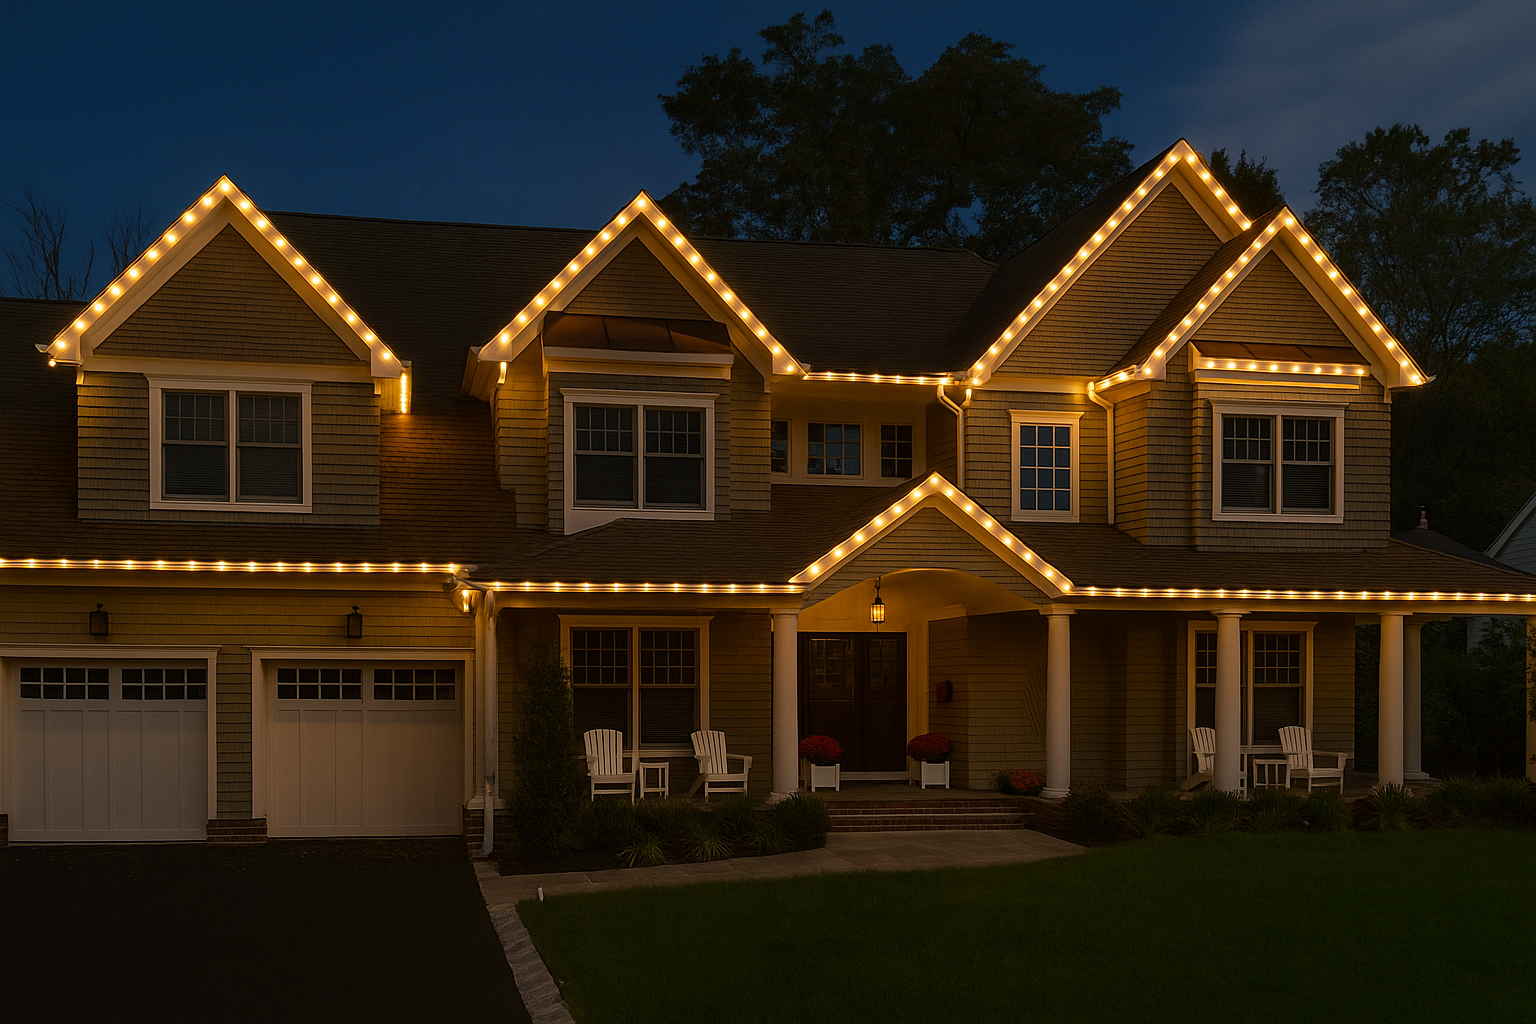
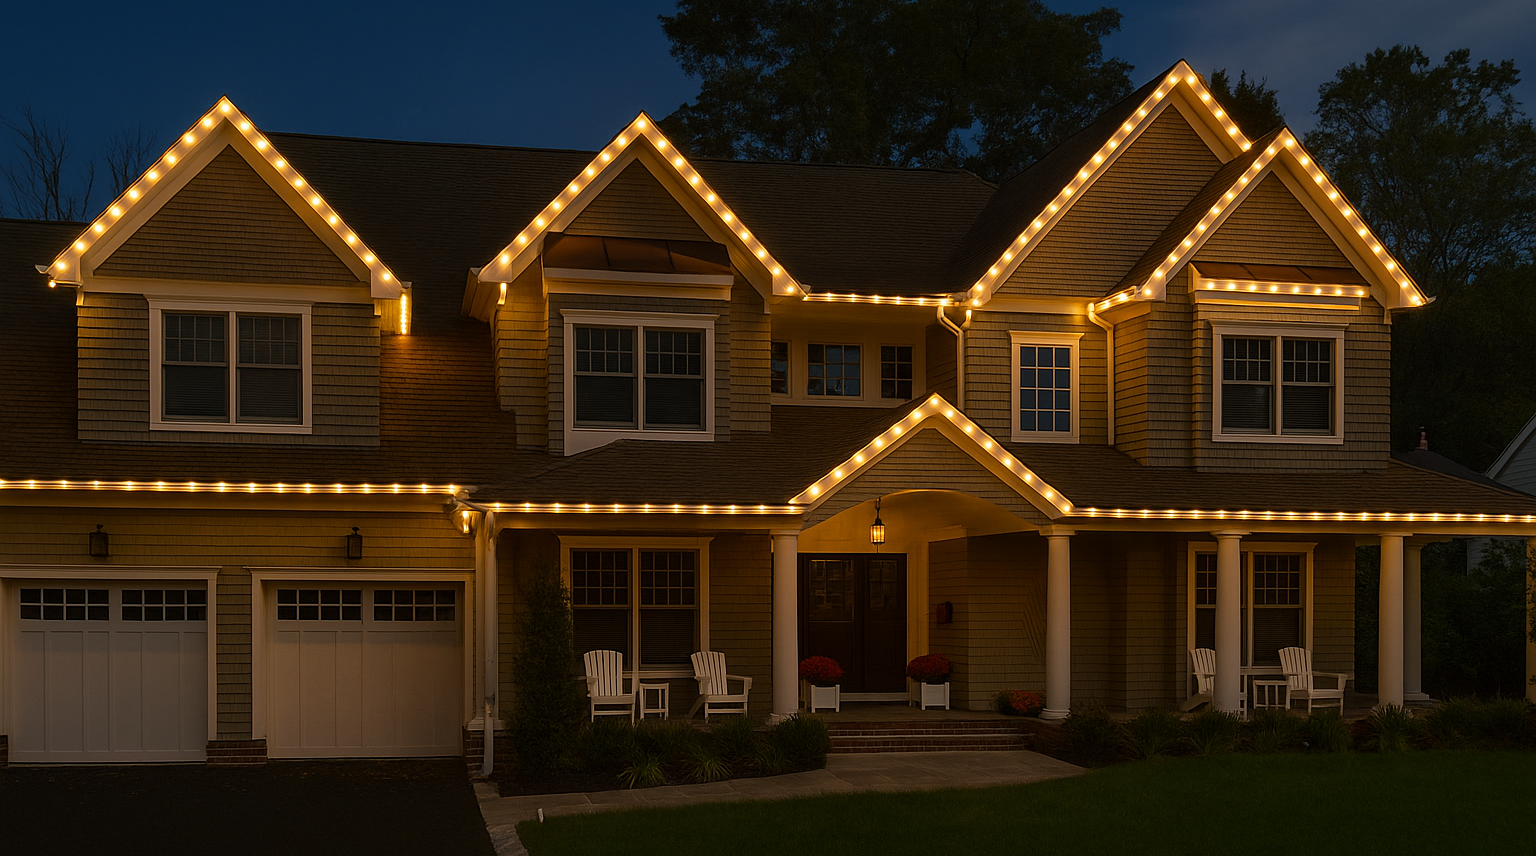
Refresh Christmas lights gallery design

diff --git a/styles.css b/styles.css
@@ -1,28 +1,29 @@
 :root {
-  --ink: #102a24;
-  --green: #123e32;
-  --evergreen: #0c2d24;
+  --ink: #f7f3e9;
+  --green: #113f35;
+  --evergreen: #081f1b;
+  --night: #071210;
   --red: #a52127;
   --gold: #e2ba6d;
-  --cream: #fbf8f0;
-  --paper: #f1ecdf;
-  --line: rgba(16, 42, 36, 0.16);
+  --cream: #0a1714;
+  --paper: #10251f;
+  --line: rgba(255,255,255,.14);
   --serif: Georgia, "Times New Roman", serif;
   --sans: "Aptos", "Segoe UI", Arial, sans-serif;
 }
 
 * { box-sizing: border-box; }
 html { scroll-behavior: smooth; }
-body { margin: 0; color: var(--ink); background: var(--cream); font-family: var(--sans); }
+body { margin: 0; color: var(--ink); background: var(--night); font-family: var(--sans); }
 a { color: inherit; }
 .skip-link { position: fixed; left: 1rem; top: -5rem; z-index: 20; padding: .75rem 1rem; color: #fff; background: var(--evergreen); }
 .skip-link:focus { top: 1rem; }
 
-.site-header { min-height: 4.25rem; display: grid; grid-template-columns: 1fr auto 1fr; align-items: center; gap: 1.25rem; padding: .45rem clamp(1.25rem, 4vw, 5rem); border-bottom: 1px solid var(--line); background: rgba(251,248,240,.95); }
+.site-header { min-height: 4.25rem; position: relative; z-index: 5; display: grid; grid-template-columns: 1fr auto 1fr; align-items: center; gap: 1.25rem; padding: .45rem clamp(1.25rem, 4vw, 5rem); border-bottom: 1px solid var(--line); background: rgba(7,18,16,.96); }
 .brand img { display: block; width: 3.45rem; height: auto; }
 nav { display: flex; gap: 1.6rem; font-size: .9rem; font-weight: 800; letter-spacing: .06em; text-transform: uppercase; }
 nav a, .header-phone { text-decoration: none; }
-nav a:hover, .header-phone:hover, .text-link:hover { color: var(--red); }
+nav a:hover, .header-phone:hover, .text-link:hover { color: var(--gold); }
 .header-phone { justify-self: end; font-size: .88rem; font-weight: 700; }
 
 .hero { min-height: min(46rem, calc(100vh - 5.75rem)); position: relative; display: grid; grid-template-columns: minmax(0, 1.35fr) minmax(17rem, .65fr); align-items: end; gap: clamp(2rem, 7vw, 8rem); padding: clamp(4rem, 9vw, 9rem) clamp(1.25rem, 8vw, 10rem); overflow: hidden; color: #fff; background: linear-gradient(100deg, rgba(7,31,24,.98) 0%, rgba(9,48,38,.9) 43%, rgba(10,35,29,.6) 75%), url("assets/holiday-bokeh.jpg") center / cover; }
@@ -36,7 +37,7 @@ h2 { margin-bottom: 1.15rem; font-size: clamp(2.2rem, 4vw, 4.45rem); line-height
 .hero-lede { max-width: 37rem; margin-bottom: 2.25rem; font-size: clamp(1.05rem, 1.5vw, 1.3rem); line-height: 1.6; color: rgba(255,255,255,.88); }
 .hero-actions { display: flex; flex-wrap: wrap; align-items: center; gap: 1.4rem; }
 .button { display: inline-flex; justify-content: center; align-items: center; min-height: 3.25rem; padding: .85rem 1.4rem; border: 1px solid transparent; font: inherit; font-weight: 800; cursor: pointer; text-decoration: none; }
-.button-light { color: var(--ink); background: var(--cream); }
+.button-light { color: var(--evergreen); background: #fff8e8; }
 .button-dark { color: #fff; background: var(--evergreen); }
 .button:hover { transform: translateY(-2px); filter: brightness(1.05); }
 .text-link { font-weight: 800; text-underline-offset: .3rem; }
@@ -46,33 +47,34 @@ h2 { margin-bottom: 1.15rem; font-size: clamp(2.2rem, 4vw, 4.45rem); line-height
 .hero-card strong { display: block; margin-bottom: 1rem; font-family: var(--serif); font-size: 2rem; font-weight: 400; line-height: 1.05; }
 .hero-card p { margin: 0; line-height: 1.55; color: rgba(255,255,255,.8); }
 
-.service-overview { color: #fff; background: var(--evergreen); }
+.service-overview { color: #fff; background: linear-gradient(145deg, #0c2d25, var(--evergreen) 65%, #071714); }
 .intro { display: grid; grid-template-columns: 1.1fr .9fr; gap: 4rem; padding: clamp(4rem, 8vw, 8rem) clamp(1.25rem, 8vw, 7rem) clamp(3rem, 6vw, 5rem); }
 .intro p:last-child { max-width: 31rem; align-self: end; font-size: 1.15rem; line-height: 1.65; color: rgba(255,255,255,.76); }
 .service-grid { display: grid; grid-template-columns: repeat(3, 1fr); margin: 0 clamp(1.25rem, 5vw, 5rem); border-top: 1px solid rgba(255,255,255,.18); border-bottom: 1px solid rgba(255,255,255,.18); }
-.service-grid article { min-height: 15rem; padding: 2rem; border-right: 1px solid rgba(255,255,255,.18); }
+.service-grid article { min-height: 16rem; padding: 2rem; border-right: 1px solid rgba(255,255,255,.18); }
 .service-grid article:last-child { border-right: none; }
-.service-number { display: block; margin-bottom: 4rem; color: var(--red); font-size: .78rem; font-weight: 800; letter-spacing: .14em; }
+.service-number { display: block; margin-bottom: 2.3rem; color: var(--gold); font-family: var(--serif); font-size: clamp(2.6rem, 4vw, 4.75rem); font-weight: 400; letter-spacing: -.05em; line-height: .75; }
 .service-grid h3 { margin-bottom: .7rem; color: #fff; font-family: var(--serif); font-size: 2rem; font-weight: 400; }
 .service-grid p { max-width: 20rem; margin: 0; color: rgba(255,255,255,.72); line-height: 1.55; }
 
-.work { padding: clamp(4.5rem, 9vw, 9rem) clamp(1.25rem, 5vw, 5rem); }
+.work { padding: clamp(4.5rem, 9vw, 9rem) clamp(1.25rem, 5vw, 5rem); color: #f7f3e9; background: #0b1916; }
 .work-heading { display: grid; grid-template-columns: 1.1fr .9fr; gap: 4rem; align-items: end; max-width: 76rem; margin: 0 auto 3rem; }
 .work-heading h2 { max-width: 41rem; margin-bottom: 0; }
-.work-heading > p { max-width: 27rem; margin: 0; color: #52625a; font-size: 1.08rem; line-height: 1.62; }
+.work-heading > p { max-width: 27rem; margin: 0; color: rgba(247,243,233,.7); font-size: 1.08rem; line-height: 1.62; }
 .work-grid { display: grid; grid-template-columns: repeat(2, minmax(0, 1fr)); gap: 1rem; max-width: 100rem; margin: 0 auto; }
-.work-grid figure { align-self: start; height: fit-content; margin: 0; background: transparent; }
-.work-grid img { display: block; width: 100%; height: auto; }
+.work-grid figure { align-self: start; height: fit-content; margin: 0; overflow: hidden; background: #050c0a; border: 1px solid rgba(255,255,255,.12); }
+.work-grid img { display: block; width: 100%; height: auto; transition: transform .45s ease; }
+.work-grid figure:hover img { transform: scale(1.015); }
 .work-grid .work-feature { grid-column: 1 / -1; grid-row: auto; }
 
-.quality { display: grid; grid-template-columns: .8fr 1.2fr; gap: clamp(2.5rem, 8vw, 8rem); padding: clamp(4rem, 8vw, 7rem) clamp(1.25rem, 8vw, 10rem); }
+.quality { display: grid; grid-template-columns: .8fr 1.2fr; gap: clamp(2.5rem, 8vw, 8rem); padding: clamp(4rem, 8vw, 7rem) clamp(1.25rem, 8vw, 10rem); background: #102720; }
 .quality h2 { max-width: 24rem; margin-bottom: 0; }
 .quality-points { display: grid; gap: 1.25rem; align-content: center; }
 .quality-points p { margin: 0; padding-bottom: 1.25rem; border-bottom: 1px solid rgba(255,255,255,.18); color: rgba(255,255,255,.76); line-height: 1.6; }
 .quality-points p:last-child { padding-bottom: 0; border-bottom: 0; }
 .quality-points strong { color: #fff; }
 
-.quote { display: grid; grid-template-columns: .75fr 1.25fr; gap: clamp(2.5rem, 7vw, 7rem); padding: clamp(4rem, 9vw, 9rem) clamp(1.25rem, 8vw, 10rem); background: var(--green); color: #fff; }
+.quote { display: grid; grid-template-columns: .75fr 1.25fr; gap: clamp(2.5rem, 7vw, 7rem); padding: clamp(4rem, 9vw, 9rem) clamp(1.25rem, 8vw, 10rem); background: linear-gradient(135deg, #5c121b, #8d1e27 54%, #5c121b); color: #fff; }
 .quote .eyebrow { color: #e9cb8c; }
 .quote-copy p:not(.eyebrow) { max-width: 28rem; color: rgba(255,255,255,.76); line-height: 1.65; }
 .quote-process { display: grid; gap: .75rem; margin: 2rem 0 0; padding: 0; list-style: none; color: rgba(255,255,255,.8); font-size: .9rem; line-height: 1.4; }
@@ -97,7 +99,7 @@ input:focus, select:focus, textarea:focus { border-color: var(--gold); }
 .quote-form .button { width: fit-content; margin-top: .65rem; background: var(--gold); color: var(--evergreen); }
 .form-note { grid-column: 1 / -1; margin: 0; font-size: .86rem; line-height: 1.45; color: rgba(255,255,255,.7); }
 
-footer { display: flex; flex-wrap: wrap; align-items: center; gap: 1.25rem 2rem; padding: 2rem clamp(1.25rem, 5vw, 5rem); color: #fff7ed; background: var(--red); }
+footer { display: flex; flex-wrap: wrap; align-items: center; gap: 1.25rem 2rem; padding: 2rem clamp(1.25rem, 5vw, 5rem); color: #fff7ed; background: #9f1f2a; }
 footer img { width: 8.7rem; }
 footer p, footer a { margin: 0; font-size: .88rem; }
 footer a { color: #fff; font-weight: 800; }
@@ -115,7 +117,7 @@ footer a { color: #fff; font-weight: 800; }
   .service-grid { grid-template-columns: 1fr; margin: 0 1.35rem; }
   .service-grid article { min-height: 0; padding: 1.7rem 0; border-right: none; border-bottom: 1px solid var(--line); }
   .service-grid article:last-child { border-bottom: none; }
-  .service-number { margin-bottom: 1.5rem; }
+  .service-number { margin-bottom: 1.5rem; font-size: 3.4rem; }
   .work { padding: 4rem 1.35rem; }
   .work-heading { grid-template-columns: 1fr; gap: 1rem; margin-bottom: 1.5rem; }
   .work-grid { grid-template-columns: 1fr; gap: .75rem; }

diff --git a/index.html b/index.html
@@ -111,13 +111,13 @@
         </div>
         <div class="work-grid">
           <figure class="work-feature">
-            <img src="assets/installation-facade.jpeg" alt="Home decorated with roofline, landscape, and entry holiday lights" />
+            <img src="assets/installation-facade.png" alt="Full exterior holiday lighting installation on a two-story home" />
           </figure>
           <figure>
             <img src="assets/installation-gables.png" alt="Home exterior with warm white gable and roofline Christmas lights" loading="lazy" />
           </figure>
           <figure>
-            <img src="assets/installation-estate.png" alt="Large home with a warm white Christmas light roofline at night" loading="lazy" />
+            <img src="assets/installation-estate.jpeg" alt="Large home decorated with roofline and landscape Christmas lights at night" loading="lazy" />
           </figure>
           <figure>
             <img src="assets/installation-roofline.jpeg" alt="Home with warm roofline Christmas lights at dusk" loading="lazy" />
